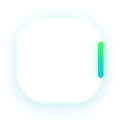
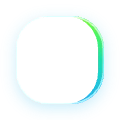
Add files via upload

Changed region(s): [[0.6, 0.125, 0.9, 0.875]]

diff --git a/style.css b/style.css
@@ -1,5 +1,6 @@
 /* ==========================================================================
-   Aero Mobile UI v10.0 - 硬件级贴图减负版 Neo Aero（Android Chrome）
+   Aero Mobile UI v10.1 - 硬件贴图减负版（Android Chrome）
+   改进：释放 Char 右侧 Swipe 占位实现两侧等距；放大纸飞机；移除紧凑与字体设置
    ========================================================================== */
 
 :root {
@@ -8,14 +9,8 @@
   --aero-radius-card: 16px;
   --aero-radius-avatar: 8px;
   --aero-font-sans: inherit;
-  --aero-font-serif: "Noto Serif SC", "Source Han Serif SC", "Songti SC", Georgia, serif;
-  --aero-humanist-font: inherit;
   --aero-ai-alpha: 0.74;
   --aero-user-alpha: 0.64;
-}
-
-:root[data-aero-font="serif"] {
-  --aero-humanist-font: var(--aero-font-serif);
 }
 
 :root[data-aero-prose-glass="airy"] {
@@ -105,7 +100,6 @@
   --aero-bottom-icon: rgba(255, 255, 255, 0.96);
 }
 
-/* ---------- 夜间共用极简轻量变体（不额外占贴图资源）---------- */
 :root[data-aero-theme="night"] {
   --spec-mint: #16BE8E;
   --spec-emerald-ink: #42FFB8;
@@ -499,7 +493,7 @@ body::-webkit-scrollbar,
 }
 
 /* ==========================================================================
-   顶部：硬件级静态纹理顶栏（零阴影与梯度计算）
+   顶部：硬件级静态纹理顶栏
    ========================================================================== */
 
 #top-bar {
@@ -630,7 +624,7 @@ body::-webkit-scrollbar,
 }
 
 /* ==========================================================================
-   消息卡片：9-Slice 硬件玻璃贴图 + 纯色背景（彻底消灭 box-shadow 滚动重绘）
+   消息卡片：9-Slice 圆角包裹光刃 + Char 两侧等距正文
    ========================================================================== */
 
 #chat > .mes {
@@ -693,7 +687,6 @@ body::-webkit-scrollbar,
   border-width: 0 !important;
 }
 
-/* 日间：九宫格外框（含菲涅尔倒角+光晕+光刃）+ 顶部不拉伸反光膜 + 单纯色半透底 */
 :root[data-aero-theme="day"] #chat > .mes[is_user="false"] > .mes_block,
 :root[data-aero-theme="day"] #chat > .mes:not([is_user="true"]) > .mes_block,
 :root:not([data-aero-theme]) #chat > .mes[is_user="false"] > .mes_block,
@@ -726,7 +719,6 @@ body::-webkit-scrollbar,
   border-image-repeat: stretch;
 }
 
-/* 夜间极简变体 */
 :root[data-aero-theme="night"] #chat > .mes[is_user="false"] > .mes_block,
 :root[data-aero-theme="night"] #chat > .mes:not([is_user="true"]) > .mes_block {
   background: var(--prose-ai-bg) !important;
@@ -740,7 +732,6 @@ body::-webkit-scrollbar,
   box-shadow: inset 0 1px 0 rgba(178, 242, 255, 0.28), inset -3px 0 0 #2CC8FF !important;
 }
 
-/* 纯合成层 opacity 呼吸态（零 box-shadow 重绘） */
 :root[data-aero-generating="true"] #chat > .mes[is_user="false"]:last-of-type > .mes_block,
 :root[data-aero-generating="true"] #chat > .mes:not([is_user="true"]):last-of-type > .mes_block {
   animation: aeroCardPulse 1.8s ease-in-out infinite;
@@ -749,6 +740,41 @@ body::-webkit-scrollbar,
 @keyframes aeroCardPulse {
   0%, 100% { opacity: 0.94; }
   50% { opacity: 1; }
+}
+
+/* 释放 Char 卡片右侧被 .swipeRightBlock 占用的垂直长条，改为右下角横向角标 */
+#chat > .mes > .swipe_left,
+#chat > .mes > .swipeRightBlock {
+  position: absolute !important;
+  bottom: 8px !important;
+  top: auto !important;
+  height: 24px !important;
+  min-height: 24px !important;
+  width: auto !important;
+  min-width: 0 !important;
+  margin: 0 !important;
+  padding: 0 4px !important;
+  z-index: 15 !important;
+  align-items: center !important;
+  justify-content: center !important;
+  opacity: 0.72;
+}
+
+#chat > .mes > .swipe_left {
+  right: 64px !important;
+  left: auto !important;
+}
+
+#chat > .mes > .swipeRightBlock {
+  right: 12px !important;
+  left: auto !important;
+  flex-direction: row !important;
+  gap: 4px !important;
+}
+
+#chat > .mes.last_mes[is_user="false"] > .mes_block > .mes_text,
+#chat > .mes.last_mes:not([is_user="true"]) > .mes_block > .mes_text {
+  padding-bottom: 34px !important;
 }
 
 .aero-mes-header {
@@ -763,11 +789,6 @@ body::-webkit-scrollbar,
   min-height: 68px;
   box-sizing: border-box;
   overflow: visible;
-}
-
-:root[data-aero-compact="true"] .aero-mes-header {
-  padding: 8px 12px 5px 12px;
-  min-height: 58px;
 }
 
 .aero-avatar-slot {
@@ -790,13 +811,6 @@ body::-webkit-scrollbar,
   background: transparent !important;
   border: none !important;
   box-shadow: none !important;
-}
-
-:root[data-aero-compact="true"] .aero-avatar-slot .avatar {
-  width: 38px !important;
-  height: 50px !important;
-  min-width: 38px !important;
-  min-height: 50px !important;
 }
 
 .aero-avatar-slot .avatar img {
@@ -868,11 +882,6 @@ body::-webkit-scrollbar,
   text-overflow: ellipsis;
   line-height: 1.3;
   letter-spacing: 0.01em;
-}
-
-.mes[is_user="false"] .aero-identity-main .name_text,
-.mes:not([is_user="true"]) .aero-identity-main .name_text {
-  font-family: var(--aero-humanist-font);
 }
 
 .aero-actions-wrap,
@@ -1018,17 +1027,13 @@ body::-webkit-scrollbar,
   opacity: 0.50;
 }
 
+/* 两侧严格等距 14px */
 .mes_block > .mes_text {
-  padding: 10px 16px 15px 16px !important;
+  padding: 10px 14px 15px 14px !important;
   font-size: 15.5px;
-  line-height: 1.78;
+  line-height: 1.76;
   letter-spacing: 0.015em;
   word-break: break-word;
-}
-
-.mes[is_user="false"] .mes_block > .mes_text,
-.mes:not([is_user="true"]) .mes_block > .mes_text {
-  font-family: var(--aero-humanist-font);
 }
 
 .mes[is_user="true"] .mes_block > .mes_text {
@@ -1065,7 +1070,7 @@ body::-webkit-scrollbar,
 }
 
 .mes_block > .mes_reasoning_details {
-  margin: 8px 16px 2px 16px !important;
+  margin: 8px 14px 2px 14px !important;
   border: none !important;
   border-left: 2.5px solid var(--spec-mint) !important;
   border-radius: 0 8px 8px 0;
@@ -1075,7 +1080,7 @@ body::-webkit-scrollbar,
 }
 
 /* ==========================================================================
-   底部：零循环重绘静态纹理底栏 + 3D 抛光霓虹橘纸飞机
+   底部：零循环重绘静态纹理底栏 + 放大无白底 3D 纸飞机 + 原尺寸无白底停止键
    ========================================================================== */
 
 #form_sheld {
@@ -1117,7 +1122,6 @@ body::-webkit-scrollbar,
   box-shadow: inset 0 1px 0 rgba(196, 244, 255, 0.45) !important;
 }
 
-/* 用单次 0.28s opacity 淡入取代 120fps 持续重绘，打字时零额外能耗 */
 #form_sheld #send_form::after {
   content: "";
   position: absolute;
@@ -1169,7 +1173,6 @@ body::-webkit-scrollbar,
   overflow: visible !important;
 }
 
-/* 九宫格水晶凹槽输入区 */
 #form_sheld #send_form #nonQRFormItems #send_textarea {
   flex: 1 1 auto !important;
   min-width: 0 !important;
@@ -1232,7 +1235,6 @@ body::-webkit-scrollbar,
   display: none !important;
 }
 
-/* 3D 抛光霓虹橘亚克力纸飞机 & 珊瑚停止宝石（彻底取代扁平字体图标） */
 #rightSendForm,
 #rightSendForm #send_but,
 #rightSendForm #mes_stop {
@@ -1249,45 +1251,10 @@ body::-webkit-scrollbar,
   padding: 0 !important;
   border: none !important;
   box-shadow: none !important;
-  border-radius: 50% !important;
+  border-radius: 0 !important;
   transition: transform 0.12s ease;
 }
 
+/* 放大版 3D 纸飞机（38px），停止宝石维持 32px 原大小 */
 #rightSendForm #send_but {
-  background: url('./assets/send-plane.webp') center / 34px 34px no-repeat !important;
-}
-
-#rightSendForm #mes_stop {
-  background: url('./assets/stop-gem.webp') center / 32px 32px no-repeat !important;
-  align-items: center !important;
-  justify-content: center !important;
-}
-
-/* 隐藏原生单色 FontAwesome 字体剪影，只显示 3D 抛光宝石贴图 */
-#rightSendForm #send_but::before,
-#rightSendForm #send_but i,
-#rightSendForm #mes_stop::before,
-#rightSendForm #mes_stop i {
-  opacity: 0 !important;
-  pointer-events: none;
-}
-
-#rightSendForm #send_but:active,
-#rightSendForm #mes_stop:active {
-  transform: scale(0.88);
-}
-
-:root[data-aero-hide-wand="true"] #extensionsMenuButton {
-  display: none !important;
-}
-
-#aero_mobile_ui_settings .aero-setting-row {
-  display: flex;
-  flex-direction: column;
-  gap: 4px;
-}
-#aero_mobile_ui_settings .aero-setting-row.checkbox_label {
-  flex-direction: row;
-  align-items: center;
-  gap: 8px;
-}
+  background: url('./assets/send-plane.webp') center

diff --git a/settings.html b/settings.html
@@ -8,8 +8,8 @@
       <div class="aero-setting-row">
         <label for="aero_theme_mode">界面气候主题（防误触内置切换）</label>
         <select id="aero_theme_mode" class="text_pole">
-          <option value="day">日间主方案（Neo Frutiger · 浅色糖果生态）</option>
-          <option value="night">夜间备选方案（深海荧光珊瑚礁）</option>
+          <option value="day">日间主方案（Neo Aero · 硬件贴图糖果生态）</option>
+          <option value="night">夜间备选方案（深海极光极简版）</option>
         </select>
       </div>
 
@@ -17,16 +17,8 @@
         <label for="aero_prose_glass">正文背景通透度（呼吸感调节）</label>
         <select id="aero_prose_glass" class="text_pole">
           <option value="airy">轻盈呼吸（62% 玻璃 · 更透出壁纸光感）</option>
-          <option value="balanced">均衡琉璃（72% 玻璃 · 推荐）</option>
+          <option value="balanced">均衡琉璃（74% 玻璃 · 推荐）</option>
           <option value="solid">稳重磨砂（88% · 适合复杂高对比壁纸）</option>
-        </select>
-      </div>
-
-      <div class="aero-setting-row" style="margin-top: 8px;">
-        <label for="aero_font_style">字体风格</label>
-        <select id="aero_font_style" class="text_pole">
-          <option value="sans">系统默认字体（推荐 · 清爽原生）</option>
-          <option value="serif">人文衬线字体（仅AI叙事与角色名）</option>
         </select>
       </div>
 
@@ -35,11 +27,6 @@
       <div class="aero-setting-row checkbox_label">
         <input id="aero_hide_wand" type="checkbox" />
         <label for="aero_hide_wand">隐藏输入栏魔法棒按钮（保留横菜单）</label>
-      </div>
-
-      <div class="aero-setting-row checkbox_label" style="margin-top: 6px;">
-        <input id="aero_compact_meta" type="checkbox" />
-        <label for="aero_compact_meta">铭牌紧凑模式（略微压缩上下边距）</label>
       </div>
 
       <hr class="sysHR" style="margin: 10px 0;" />
@@ -56,7 +43,7 @@
             <i class="fa-solid fa-arrows-rotate"></i> 刷新生效
           </button>
         </div>
-        <small id="aero_update_status">当前版本：v9.0 Clean Neo Frutiger</small>
+        <small id="aero_update_status">当前版本：v10.1 Neo Aero</small>
       </div>
     </div>
   </div>

diff --git a/index.js b/index.js
@@ -3,9 +3,7 @@ const MODULE_NAME = 'aero_mobile_ui';
 const DEFAULT_SETTINGS = Object.freeze({
     theme: 'day',
     proseGlass: 'balanced',
-    fontStyle: 'sans',
     hideWand: true,
-    compactMeta: false,
 });
 
 function getCtx() {
@@ -49,9 +47,7 @@ function applyAppearance() {
     const root = document.documentElement;
     root.setAttribute('data-aero-theme', s.theme);
     root.setAttribute('data-aero-prose-glass', s.proseGlass || 'balanced');
-    root.setAttribute('data-aero-font', s.fontStyle || 'sans');
     root.setAttribute('data-aero-hide-wand', String(Boolean(s.hideWand)));
-    root.setAttribute('data-aero-compact', String(Boolean(s.compactMeta)));
 
     applyChromeThemeColor('#16BE8E');
 }
@@ -403,10 +399,7 @@ async function mountSettingsPanel() {
 
         bindSettingSelect('aero_theme_mode', 'theme');
         bindSettingSelect('aero_prose_glass', 'proseGlass');
-        bindSettingSelect('aero_font_style', 'fontStyle');
-
         bindSettingCheckbox('aero_hide_wand', 'hideWand');
-        bindSettingCheckbox('aero_compact_meta', 'compactMeta');
 
         const updateBtn = document.getElementById('aero_check_update_btn');
         const mgrBtn = document.getElementById('aero_open_mgr_btn');
